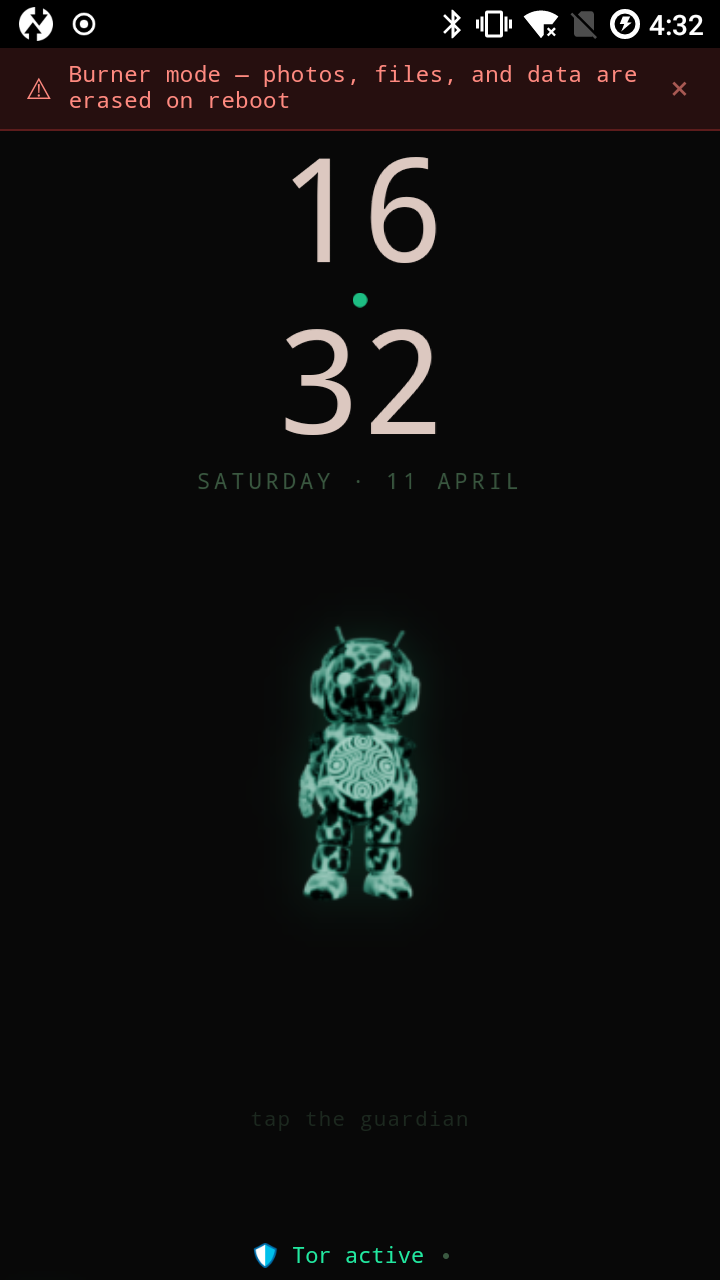
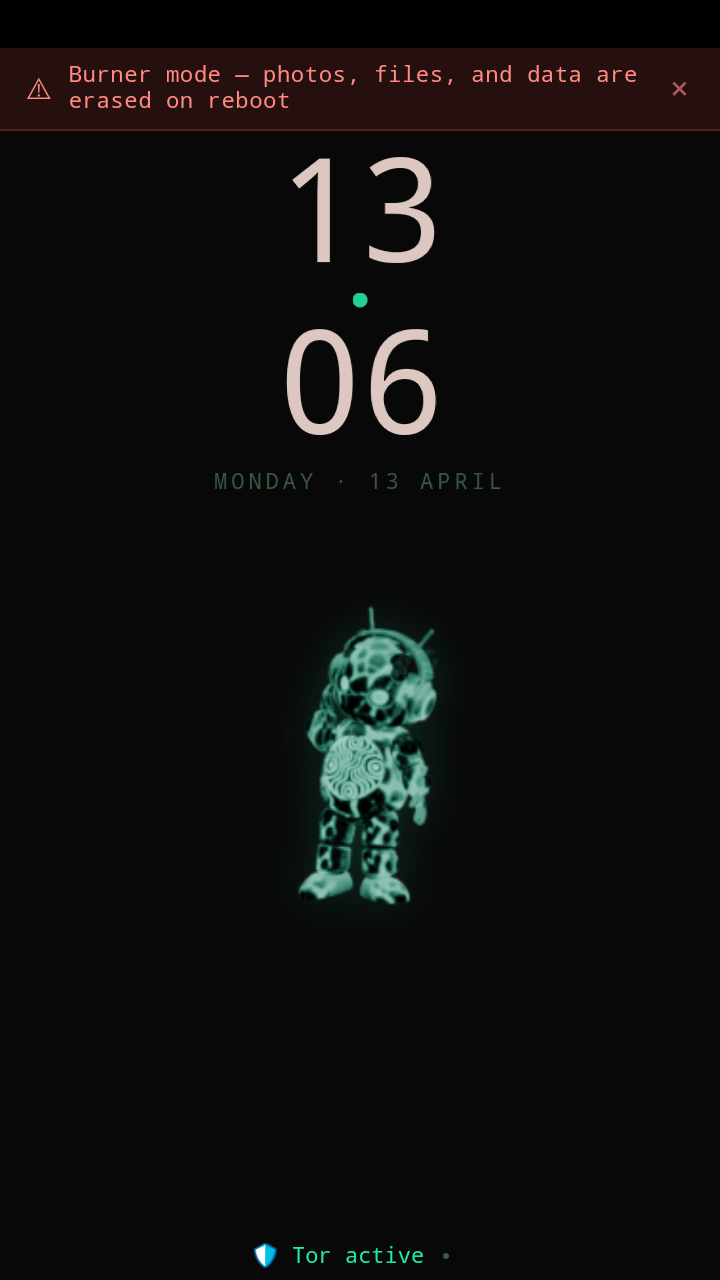
feat(release): add device screenshots from Galaxy Note II
Real screenshots from t0lte (shallow tier, Android 7.1, Mali-400):
- Home screen: clock + mascot sprite + burner banner + Tor active
- App drawer: text-only alphabetized list with search
- Agent chat: Spanish response, AI badge, provider label

XDA thread now references screenshots instead of placeholder.

diff --git a/docs/release/XDA-THREAD.md b/docs/release/XDA-THREAD.md
@@ -166,7 +166,11 @@ The LETHE agent needs a cloud provider key to respond (local models coming soon)
 
 ## Screenshots
 
-*(screenshots to be added before May 4th)*
+| Home screen | App drawer | Agent chat |
+|:-----------:|:----------:|:----------:|
+| ![Home](screenshots/01-home-screen.png) | ![Drawer](screenshots/02-app-drawer.png) | ![Chat](screenshots/03-agent-chat.png) |
+
+*Galaxy Note II (t0lte) — shallow tier, Android 7.1, sprite avatar*
 
 ---
 
